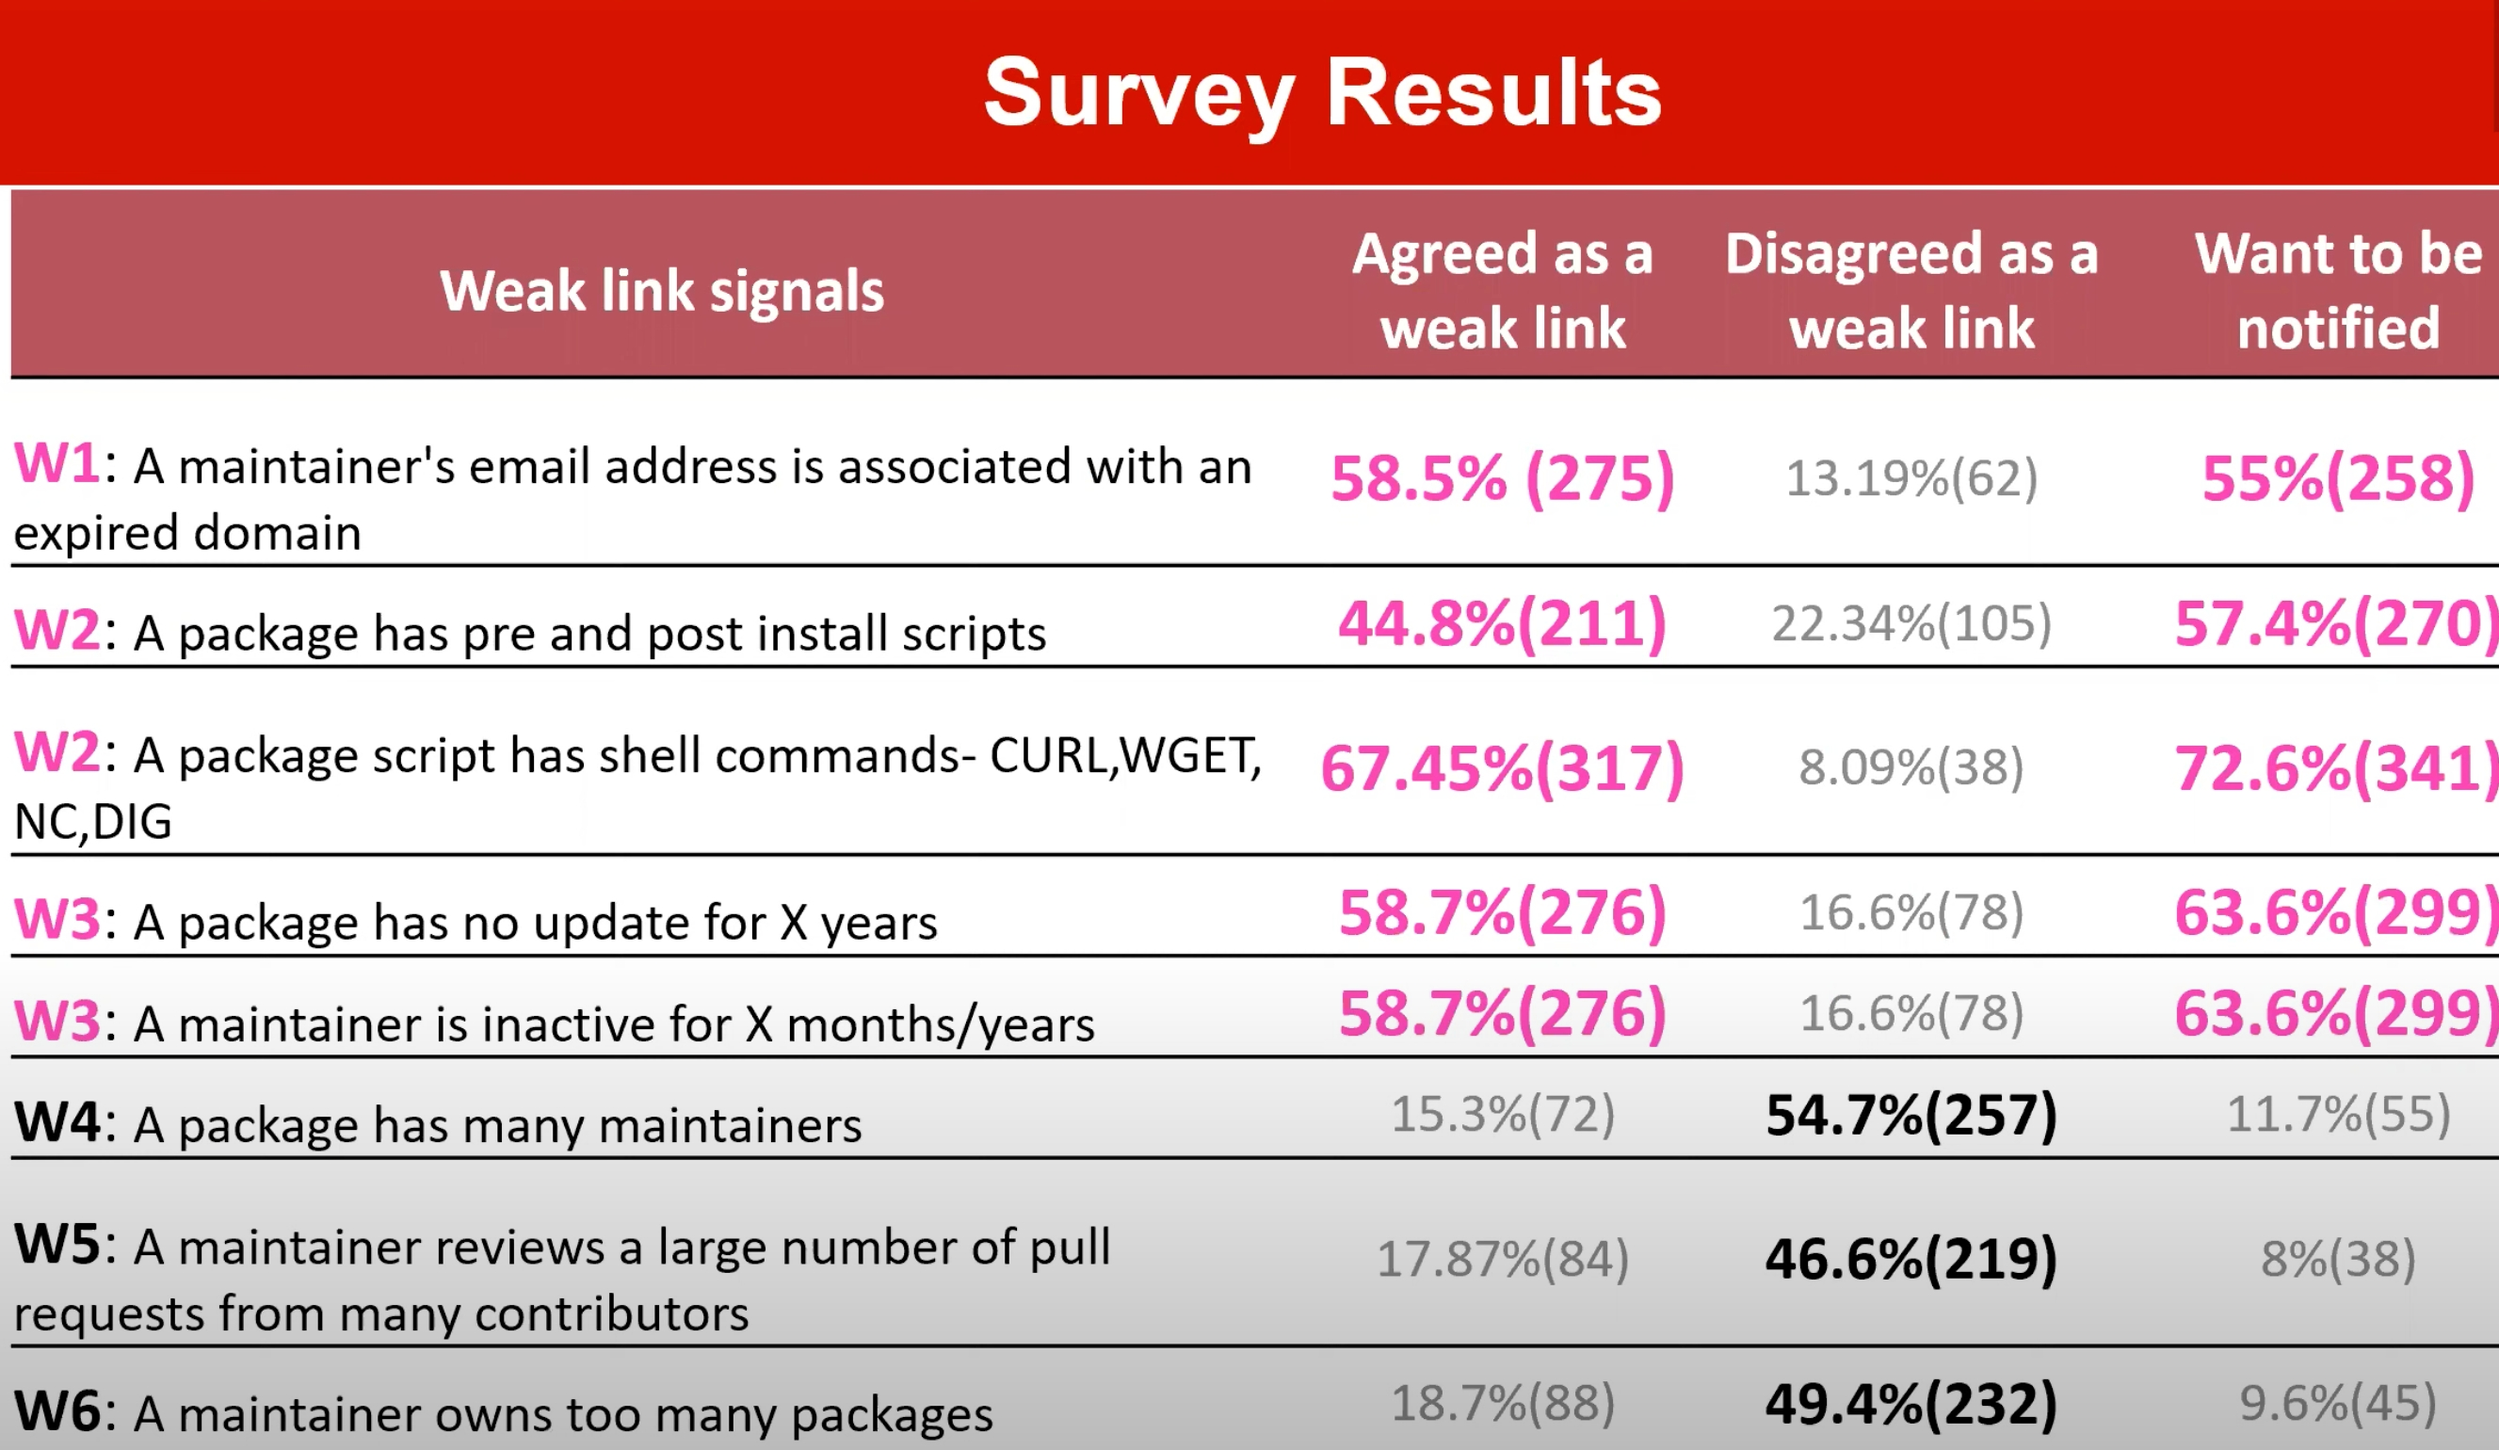
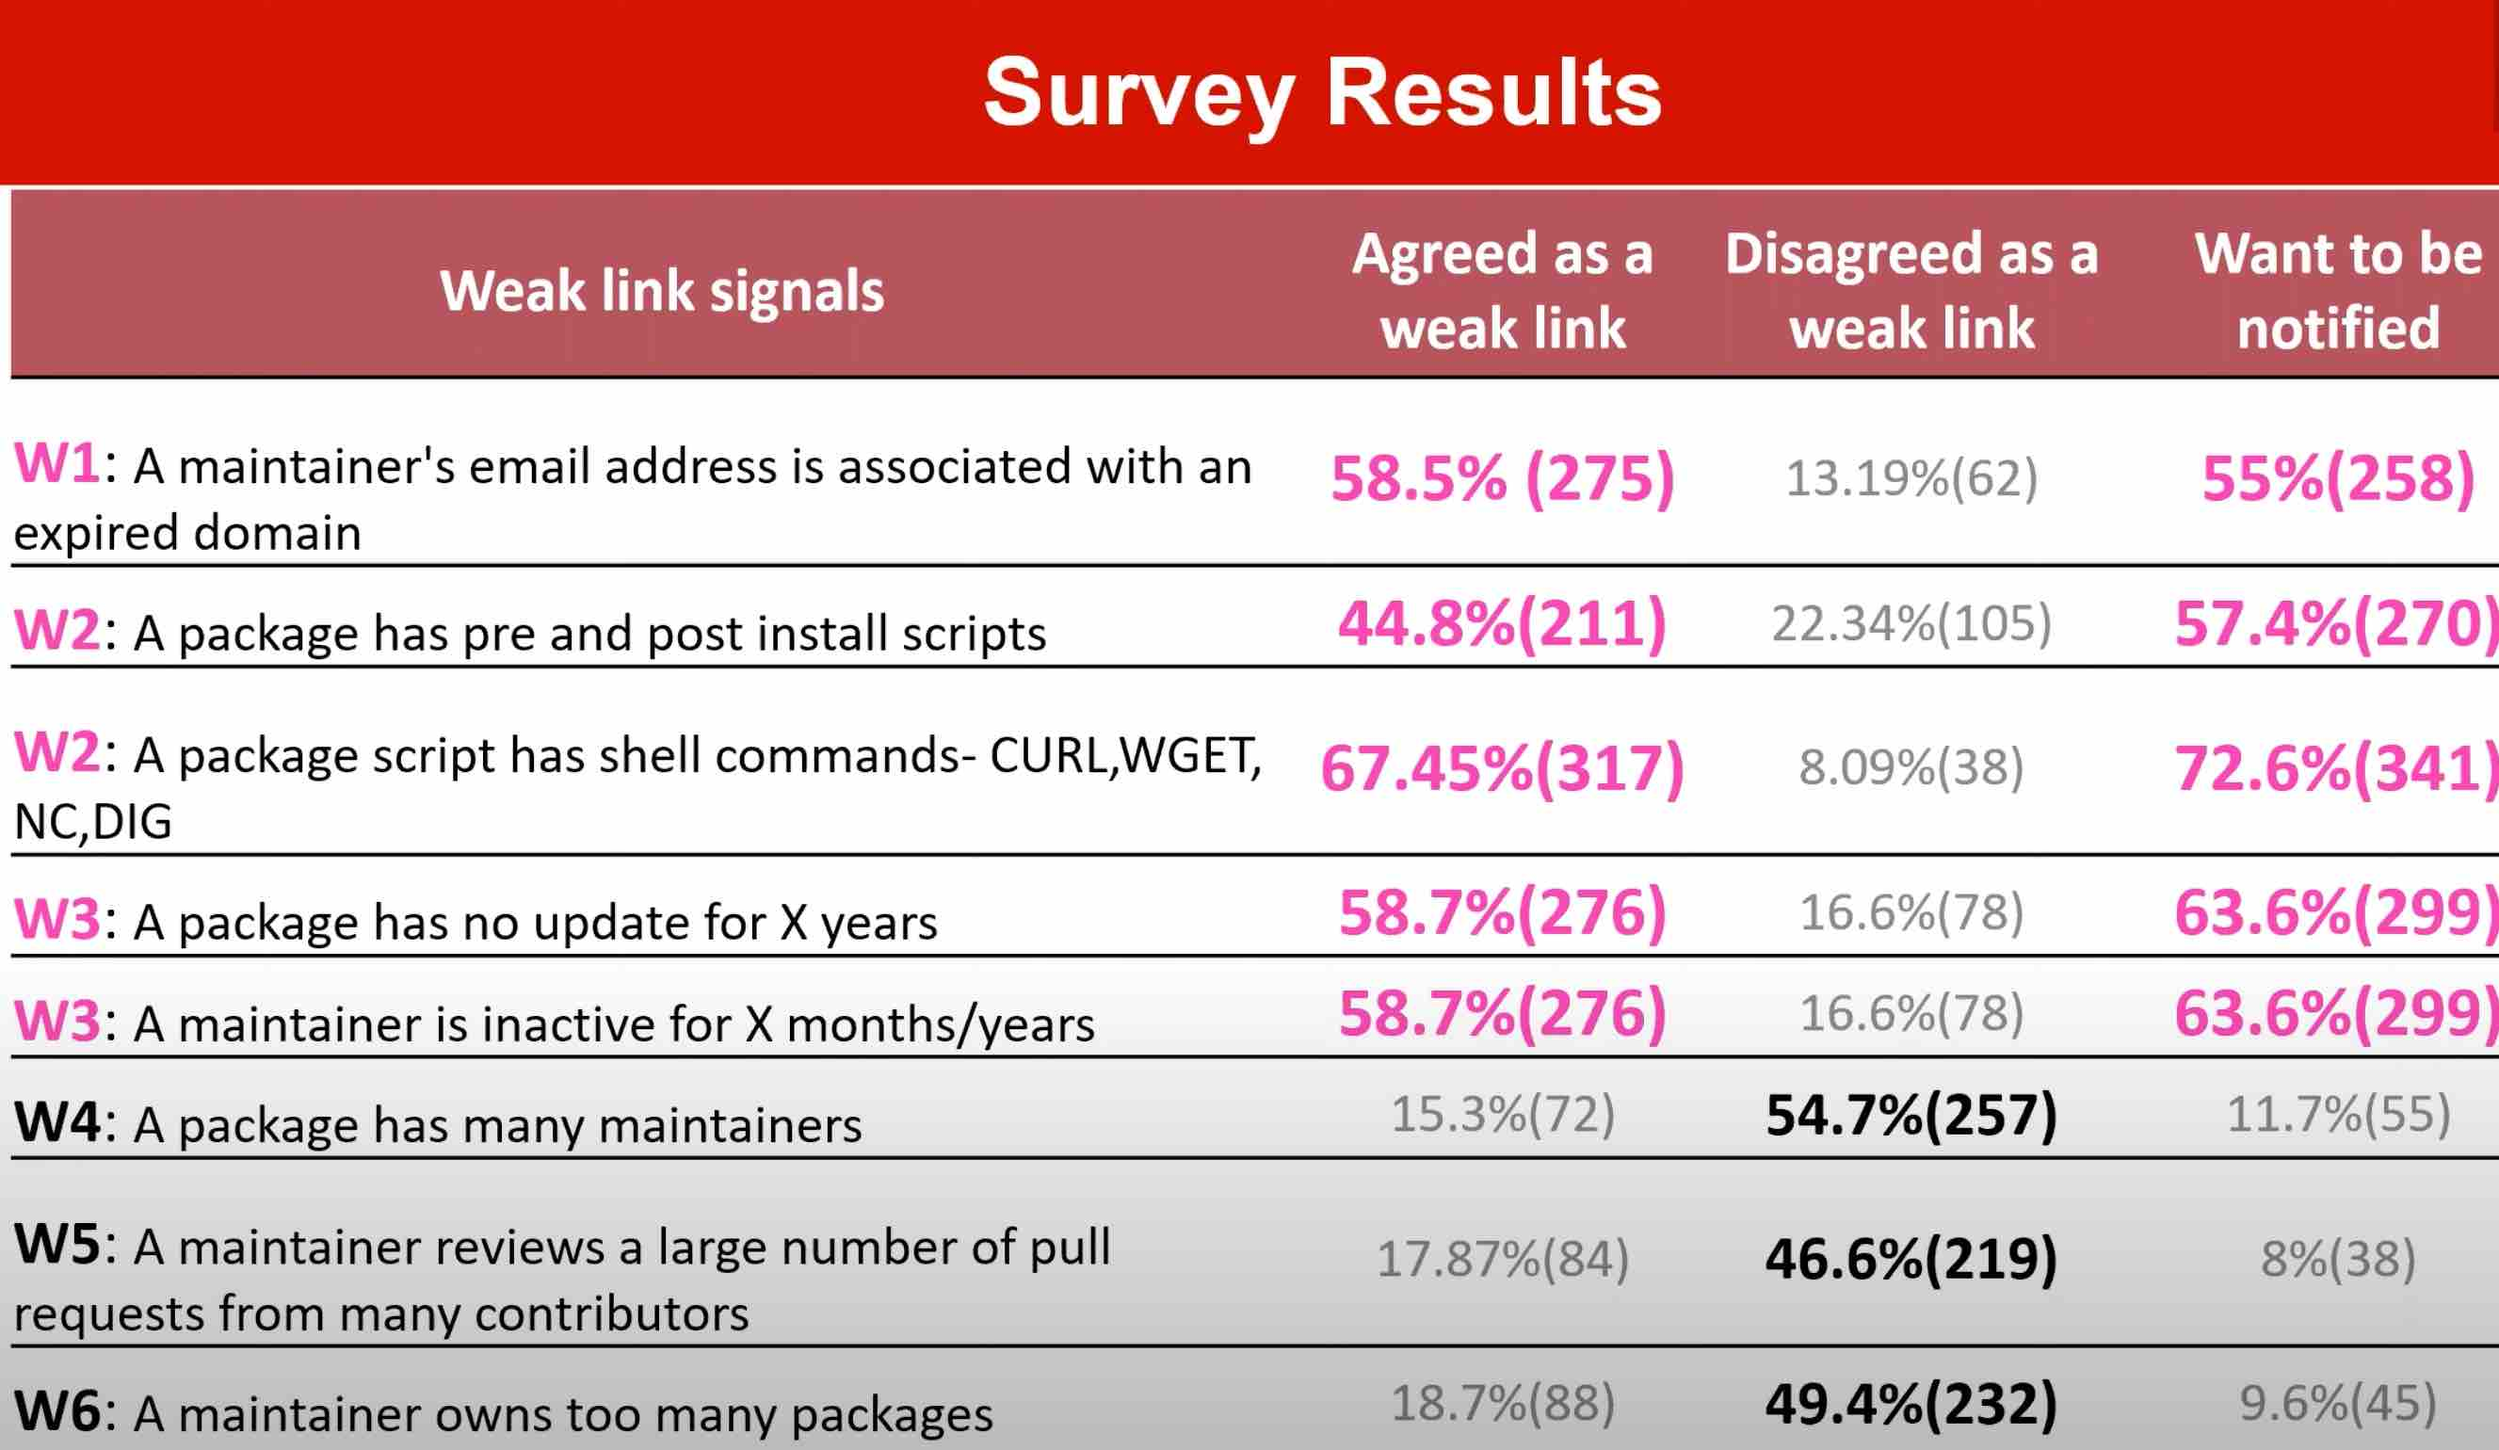
compress images

diff --git a/_posts/2023-01-06-Montage: A Neural Network Language Model-Guided JavaScript Engine Fuzzer.md b/_posts/2023-01-06-Montage: A Neural Network Language Model-Guided JavaScript Engine Fuzzer.md
@@ -3,7 +3,7 @@ layout: post
 title:  "一分钟读论文：《Montage：基于神经网络语言模型 (NNLM) 实现 JS 引擎模糊测试器》"
 author: unbug
 categories: [ NNLM, secure, JS ]
-image: assets/images/screenshot-20230109-110011.png
+image: assets/images/screenshot-20230109-110011.jpeg
 ---
 基于神经网络语言模型 (NNLM) 实现 JS 引擎模糊测试器被证实有效。韩国科学技术院（KAIST）的一篇论文[《Montage: A Neural Network Language Model-Guided JavaScript Engine Fuzzer》][paper1-url]， 首次提出了基于神经网络语言模型 (NNLM) 实现 JS 引擎模糊测试器： Montage。
 1. 论文提出了一种将 JS 测试用例的层次结构和这些结构之间的关系建模为一系列片段的新算法。 将 AST 编码为片段序列使 Montage 能够使用 LSTM 模型学习片段之间的关系。
@@ -11,11 +11,11 @@ image: assets/images/screenshot-20230109-110011.png
 3. 试验用例结果表明 Montage 在最新的 JS 引擎中发现了`37`个真实 bug，有3个是公共漏洞和暴露`（CVE）`，证明了它能有效发现 JS 引擎的 bug。
 
 以下是 Montage 的设计示意图：
-![overview]({{ site.baseurl }}/assets/images/screenshot-20230109-110011.png)
+![overview]({{ site.baseurl }}/assets/images/screenshot-20230109-110011.jpeg)
 
 以下是使用3种模糊测试器和 Montage 方法发现的错误数量比较
 
-![montage vs xxx]({{ site.baseurl }}/assets/images/Screenshot2023-01-08at01.42.57.png)
+![montage vs xxx]({{ site.baseurl }}/assets/images/Screenshot2023-01-08at01.42.57.jpeg)
 
 以下是用 CVE-2019-0860 的测试代码能够触发的成功案例之一。
 

diff --git a/_posts/2023-01-10-Mining Rule Violations in JavaScript Code Snippets.md b/_posts/2023-01-10-Mining Rule Violations in JavaScript Code Snippets.md
@@ -3,7 +3,7 @@ layout: post
 title:  "一分钟读论文：《StackOverflow 上 JS 代码片段规则违规的挖掘》"
 author: unbug
 categories: [ Lint, JS ]
-image: assets/images/screenshot-20230110-165809.png
+image: assets/images/screenshot-20230110-165809.jpeg
 ---
 还在复制粘贴 StackOverflow 的代码吗？巴西的巴西利亚大学和巴西贝伦联邦大学合著的论文[《Mining Rule Violations in JavaScript Code Snippets》][paper1-url]对 StackOverflow 的 336k 个代码片段进行分析，发现答案里 `100%` 的 JavaScript 代码都存在 ESLinter 不通过问题。
 
@@ -17,7 +17,7 @@ image: assets/images/screenshot-20230110-165809.png
 - 根据 ESLINT 使用的五个规则对违规行为进行了分类，即：Error、最佳实践、变量、文体问题、ECMAScript、Node.js 和 CommonJs。 文体问题占整体违规行为的 82.9%。 开发人员可能更感兴趣的 Error 占违规的 0.1%。
 - 发现在 6,303 个有潜在 Error 的代码片段中，只有 36 个代码片段在 GitHub 软件项目中被重用，共有 `2,092` 个项目重用了这些代码片段。 然而，只有三个代码片段占整体重用的 `94%`。
 
-![lint-rules]({{ site.baseurl }}/assets/images/screenshot-20230110-164906.png)
+![lint-rules]({{ site.baseurl }}/assets/images/screenshot-20230110-164906.jpeg)
 
 
 [paper1-url]: http://gustavopinto.org/lost+found/msr2019c.pdf

diff --git a/_posts/2023-01-08-On A Systematic Comparison of the Software Quality of JavaScript and TypeScript Applications on GitHub.md b/_posts/2023-01-08-On A Systematic Comparison of the Software Quality of JavaScript and TypeScript Applications on GitHub.md
@@ -3,7 +3,7 @@ layout: post
 title:  "一分钟读论文：《要不要上 TypeScript？GitHub 上 JS 和 TS 应用软件质量的系统比较》"
 author: unbug
 categories: [ TypeScript, JS ]
-image: assets/images/screenshot-20230109-113530.png
+image: assets/images/screenshot-20230109-113530.jpeg
 tags: [featured]
 ---
 你的团队是否还在纠结要不要将项目改成 TypeScript 呢？改成 TypeScript 应用的 bug 能得到收敛吗？德国斯图加特大学软件工程研究所的这篇新论文[《To Type or Not to Type? A Systematic Comparison of the Software Quality of JavaScript and TypeScript Applications on GitHub》][paper1-url]能给你答案。
@@ -25,7 +25,7 @@ tags: [featured]
 7. 在 TypeScript 应用中，使用 any 类型的频率与 bug 修复率之间`没有显著相关性`。
 8. 使用 any 类型的频率与 TypeScript 应用中的 bug解决时间`呈正相关`但微弱相关 (𝜌 = 0.17)。
 
-![summary]({{ site.baseurl }}/assets/images/screenshot-20230109-114345.png)
+![summary]({{ site.baseurl }}/assets/images/screenshot-20230109-114345.jpeg)
 
 ### References
 - [SonarQube][links-1]

diff --git a/_posts/2023-01-07-On the (Un-)Adoption of JavaScript Front-end Frameworks.md b/_posts/2023-01-07-On the (Un-)Adoption of JavaScript Front-end Frameworks.md
@@ -3,7 +3,7 @@ layout: post
 title:  "一分钟读论文：《关于（未）采用 JavaScript 前端框架的研究》"
 author: unbug
 categories: [ JS, Framework ]
-image: assets/images/Screenshot 2023-01-09 at 00.17.08.png
+image: assets/images/Screenshot 2023-01-09 at 00.17.08.jpeg
 ---
 如果你的团队正在考虑迁移新的前端框架，建议你先读巴西南马托格罗索联邦大学计算机系的这篇论文[《On the (Un-)Adoption of JavaScript Front-end Frameworks》][paper1-url]。作者通过研究 Github 的 TOP-15000 项目，覆盖 Angular、React、VUE、Backbone, Ember 主流框架，对采用或不采用框架有了建设性的发现：
 1. `受欢迎程度 (39%) 和易学性 (35%)` 是激励采用前端框架的主要因素。

diff --git a/_posts/2023-01-05-What are Weak Links in the npm Supply Chain.md b/_posts/2023-01-05-What are Weak Links in the npm Supply Chain.md
@@ -3,7 +3,7 @@ layout: post
 title:  "一分钟读论文：《NPM 供应链的软肋是什么?》"
 author: unbug
 categories: [ npm, secure ]
-image: assets/images/Screenshot-2023-01-07-at-22.02.33.png
+image: assets/images/Screenshot-2023-01-07-at-22.02.33.jpeg
 tags: [sticky, featured]
 ---
 微软和美国北卡罗莱纳州立大学合作的一篇论文[《What are Weak Links in the npm Supply Chain?》][paper1-url]，有几个数据触目惊心：
